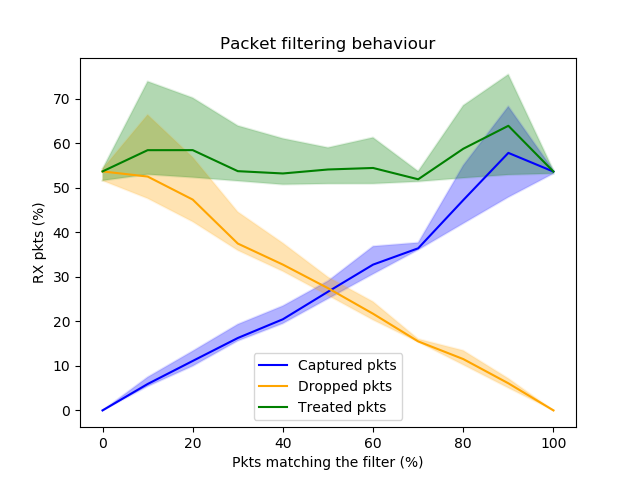
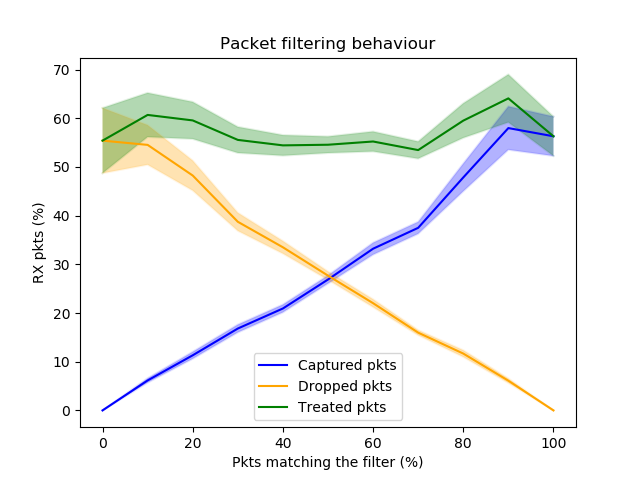
new results

diff --git a/test2/plot.py b/test2/plot.py
@@ -1,5 +1,5 @@
 import matplotlib.pyplot as plt
-from numpy import sum
+from numpy import sum, mean, sqrt, var
 
 # create data 
 file_name = "results_dump"
@@ -16,7 +16,8 @@ lower_total = []
 upper_total = []
 total_box = []
 
-x = [0,10,20,30,40,50,60,70,80,90,100] 
+N = 20
+x = [0,10,20,30,40,50,60,70,80,90,100]
 
 for i in range(11):
     file = open(file_name + str(i) + ".txt", 'r')
@@ -55,19 +56,27 @@ for i,j in zip(cap_box,filter_box):
 # basic plot
 
 for i in range(11):
-    sub_cap = cap_box[20*i:20*(i+1)]
-    sub_filter = filter_box[20*i:20*(i+1)]
-    sub_total = total_box[20*i:20*(i+1)]
-    sub_total, sub_cap, sub_filter = (list(t) for t in zip(*sorted(zip(sub_total, sub_cap, sub_filter))))
-    lower_total.append(sub_total[4])
-    upper_total.append(sub_total[-5])
-    total.append(sum(sub_total)/12)
-    lower_cap.append(sub_cap[4])
-    upper_cap.append(sub_cap[-5])
-    cap.append(sum(sub_cap)/12)
-    lower_filter.append(sub_filter[4])
-    upper_filter.append(sub_filter[-5])
-    filter.append(sum(sub_filter)/12)
+    sub_cap = cap_box[N*i:N*(i+1)]
+    sub_filter = filter_box[N*i:N*(i+1)]
+    sub_total = total_box[N*i:N*(i+1)]
+    #sub_total, sub_cap, sub_filter = (list(t) for t in zip(*sorted(zip(sub_total, sub_cap, sub_filter))))
+    mean_cap = mean(sub_cap)
+    cap.append(mean_cap)
+    std = sqrt(var(sub_cap))
+    lower_cap.append(max(0,mean_cap - 1.96 * std / sqrt(len(sub_cap))))
+    upper_cap.append(mean_cap + 1.96 * std / sqrt(len(sub_cap)))
+
+    mean_filter = mean(sub_filter)
+    filter.append(mean_filter)
+    std = sqrt(var(sub_filter))
+    lower_filter.append(max(0,mean_filter - 1.96 * std / sqrt(len(sub_filter))))
+    upper_filter.append(mean_filter + 1.96 * std / sqrt(len(sub_filter)))
+
+    mean_total = mean(sub_total)
+    total.append(mean_total)
+    std = sqrt(var(sub_total))
+    lower_total.append(max(0,mean_total - 1.96 * std / sqrt(len(sub_total))))
+    upper_total.append(mean_total + 1.96 * std / sqrt(len(sub_total)))
 
 
 plt.plot(x, lower_cap, x, upper_cap, color='blue', alpha=0.1)

diff --git a/test2/plot_loss.py b/test2/plot_loss.py
@@ -1,0 +1,67 @@
+import matplotlib.pyplot as plt
+from numpy import mean, sqrt, var
+
+# create data 
+file_name = "results_dump"
+cap_box = []
+filter_box = []
+lower_total = []
+upper_total = []
+total_box = []
+total = []
+
+N = 20
+
+x = [0,10,20,30,40,50,60,70,80,90,100] 
+
+for i in range(11):
+    file = open(file_name + str(i) + ".txt", 'r')
+    Lines = file.readlines() 
+    captured = 0
+    filtered = 0
+    captured_ = 0
+    filtered_ = 0
+    dev_ = 0
+    # Strips the newline character 
+    for j in range(len(Lines)):
+        line = Lines[j].strip().split()
+        if len(line) < 1:
+            continue
+        if line[0] == "Capture":
+            captured_ = int(line[-1])
+        elif line[0] == "Filter":
+            filtered_ = int(line[-1])
+        elif line[0] == "Device:":
+            dev_ = int(line[-1])
+            captured += captured_ * 100 / dev_
+            cap_box.append(captured_ * 100 / dev_)
+            filtered += filtered_ * 100 / dev_
+            filter_box.append(filtered_ * 100 / dev_)
+
+
+for i,j in zip(cap_box,filter_box):
+    total_box.append(100 - (i+j))
+
+
+# basic plot
+
+for i in range(11):
+    sub_total = total_box[N*i:N*(i+1)]
+    mean_total = mean(sub_total)
+    total.append(mean_total)
+    std = sqrt(var(sub_total))
+    lower_total.append(max(0,mean_total - 1.96 * std / sqrt(len(sub_total))))
+    upper_total.append(mean_total + 1.96 * std / sqrt(len(sub_total)))
+
+
+plt.plot(x, lower_total, x, upper_total, color='blue', alpha=0.1)
+plt.fill_between(x, lower_total, upper_total, where=upper_total >= lower_total, alpha=0.3, facecolor='blue', interpolate=True)
+
+# plot lines 
+plt.plot(x, total, label = "Lost pkts", color="blue")
+plt.title('Packet loss vs matching filter')
+plt.ylabel('Lost pkts (%)')
+plt.xlabel('Pkts matching the filter (%)')
+plt.legend() 
+
+plt.savefig("percentage_loss.png")

diff --git a/test1/plot.py b/test1/plot.py
@@ -1,5 +1,5 @@
 import matplotlib.pyplot as plt
-from numpy import sum
+from numpy import var, mean, sqrt
 
 # create data 
 file_name = "results_dump"
@@ -15,6 +15,7 @@ pkt_loss = []
 upper_loss = []
 lower_loss = []
 
+N = 20
 # value returned by parser.py
 x = [0.9964999999999998, 2.0029999999999997, 3.0089999999999995, 4.017999999999999, 5.024499999999999, 6.0295000000000005, 7.036, 8.056000000000001, 9.054000000000002, 10.068499999999998, 11.059000000000001, 11.941500000000001, 12.424499999999998, 12.91, 13.376, 13.854500000000002, 14.4055, 14.8375]
 
@@ -41,14 +42,15 @@ for i in range(1,19):
 for i in range(18):
     rx = []
     tx = []
-    for j in range(20):
+    for j in range(N):
         rx.append(received[i*18+j])
         tx.append(sent[i*18+j])
     loss_val = loss(rx,tx)
-    loss_val.sort()
-    pkt_loss.append(sum(loss_val)/12)
-    lower_loss.append(loss_val[4])
-    upper_loss.append(loss_val[-5])
+    mean_val = mean(loss_val)
+    pkt_loss.append(mean_val)
+    std = sqrt(var(loss_val))
+    lower_loss.append(max(0,mean_val - 1.96 * std / sqrt(len(loss_val))))
+    upper_loss.append(mean_val + 1.96 * std / sqrt(len(loss_val)))
 
 def print_list(x):
     for xx in x:

diff --git a/test1/parser.py b/test1/parser.py
@@ -1,4 +1,4 @@
-from numpy import sum
+from numpy import sum, var, mean
 file_name = "results_generator"
 
 x = []
